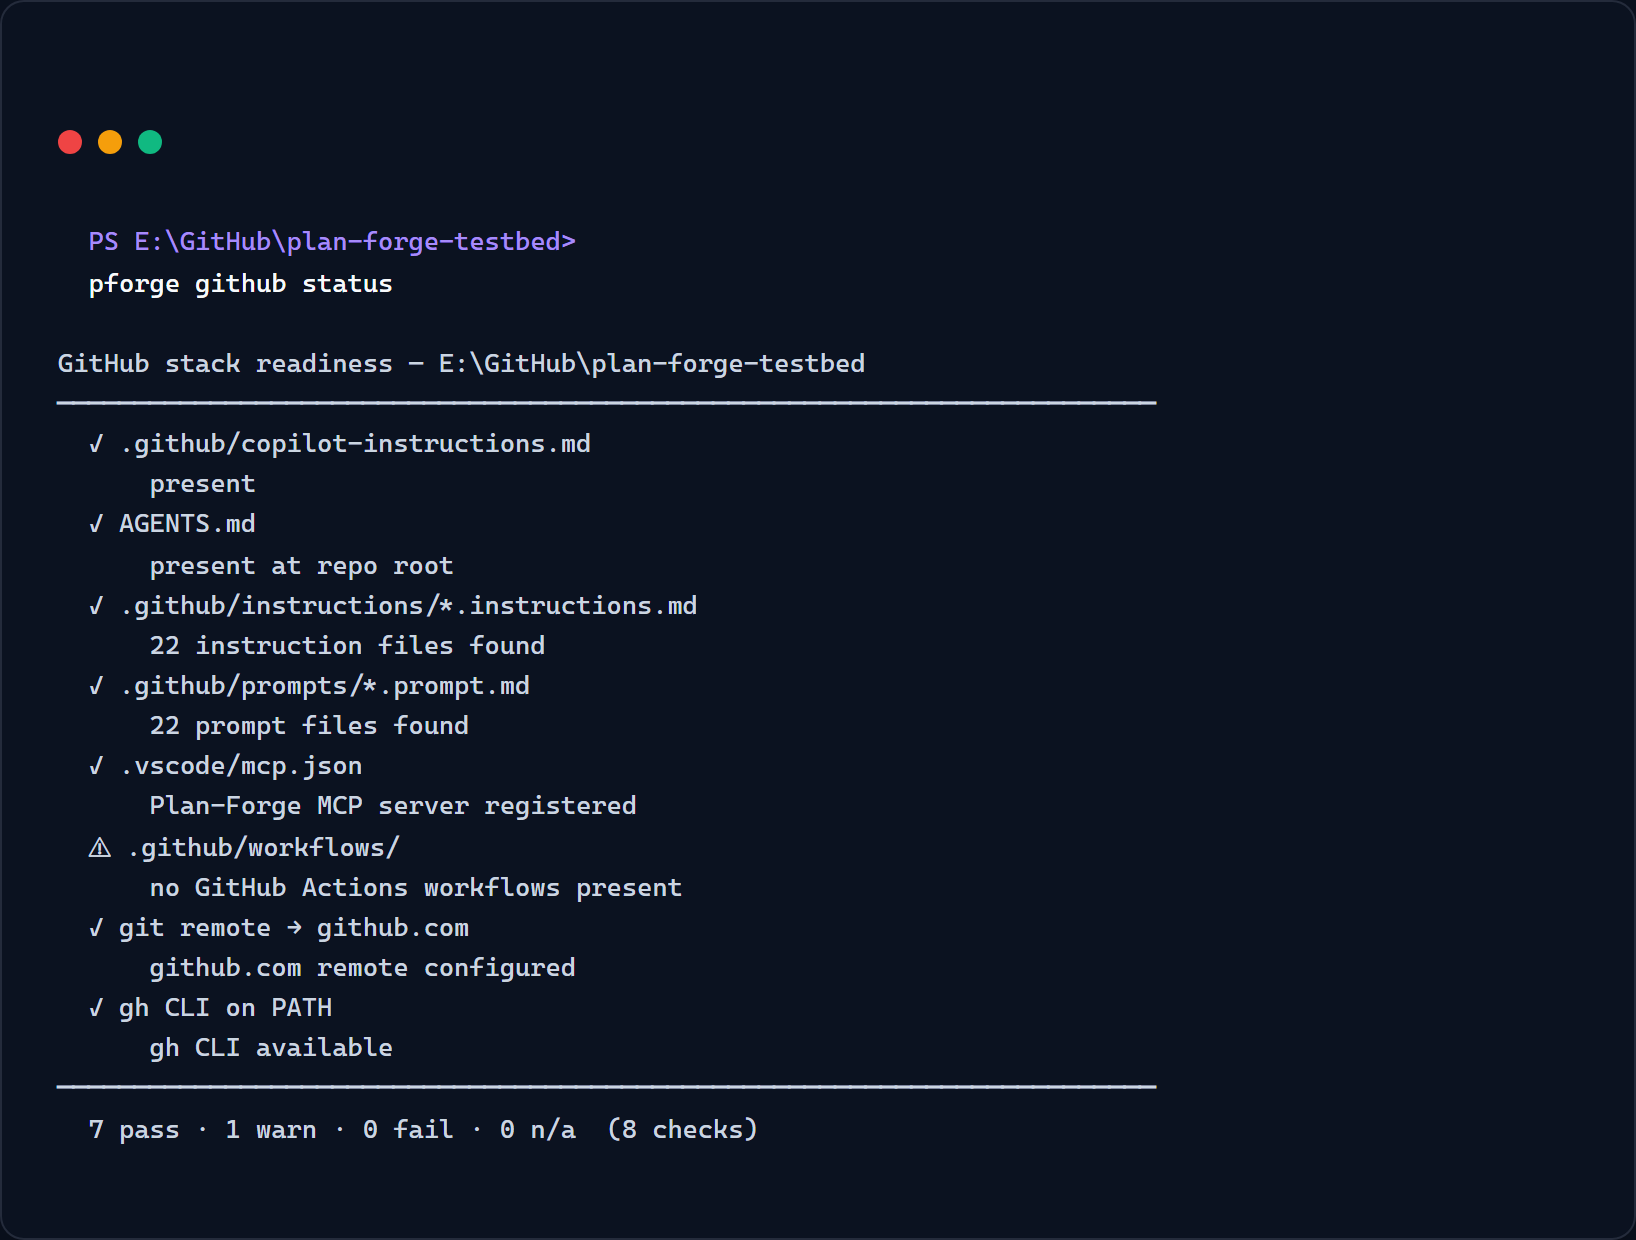
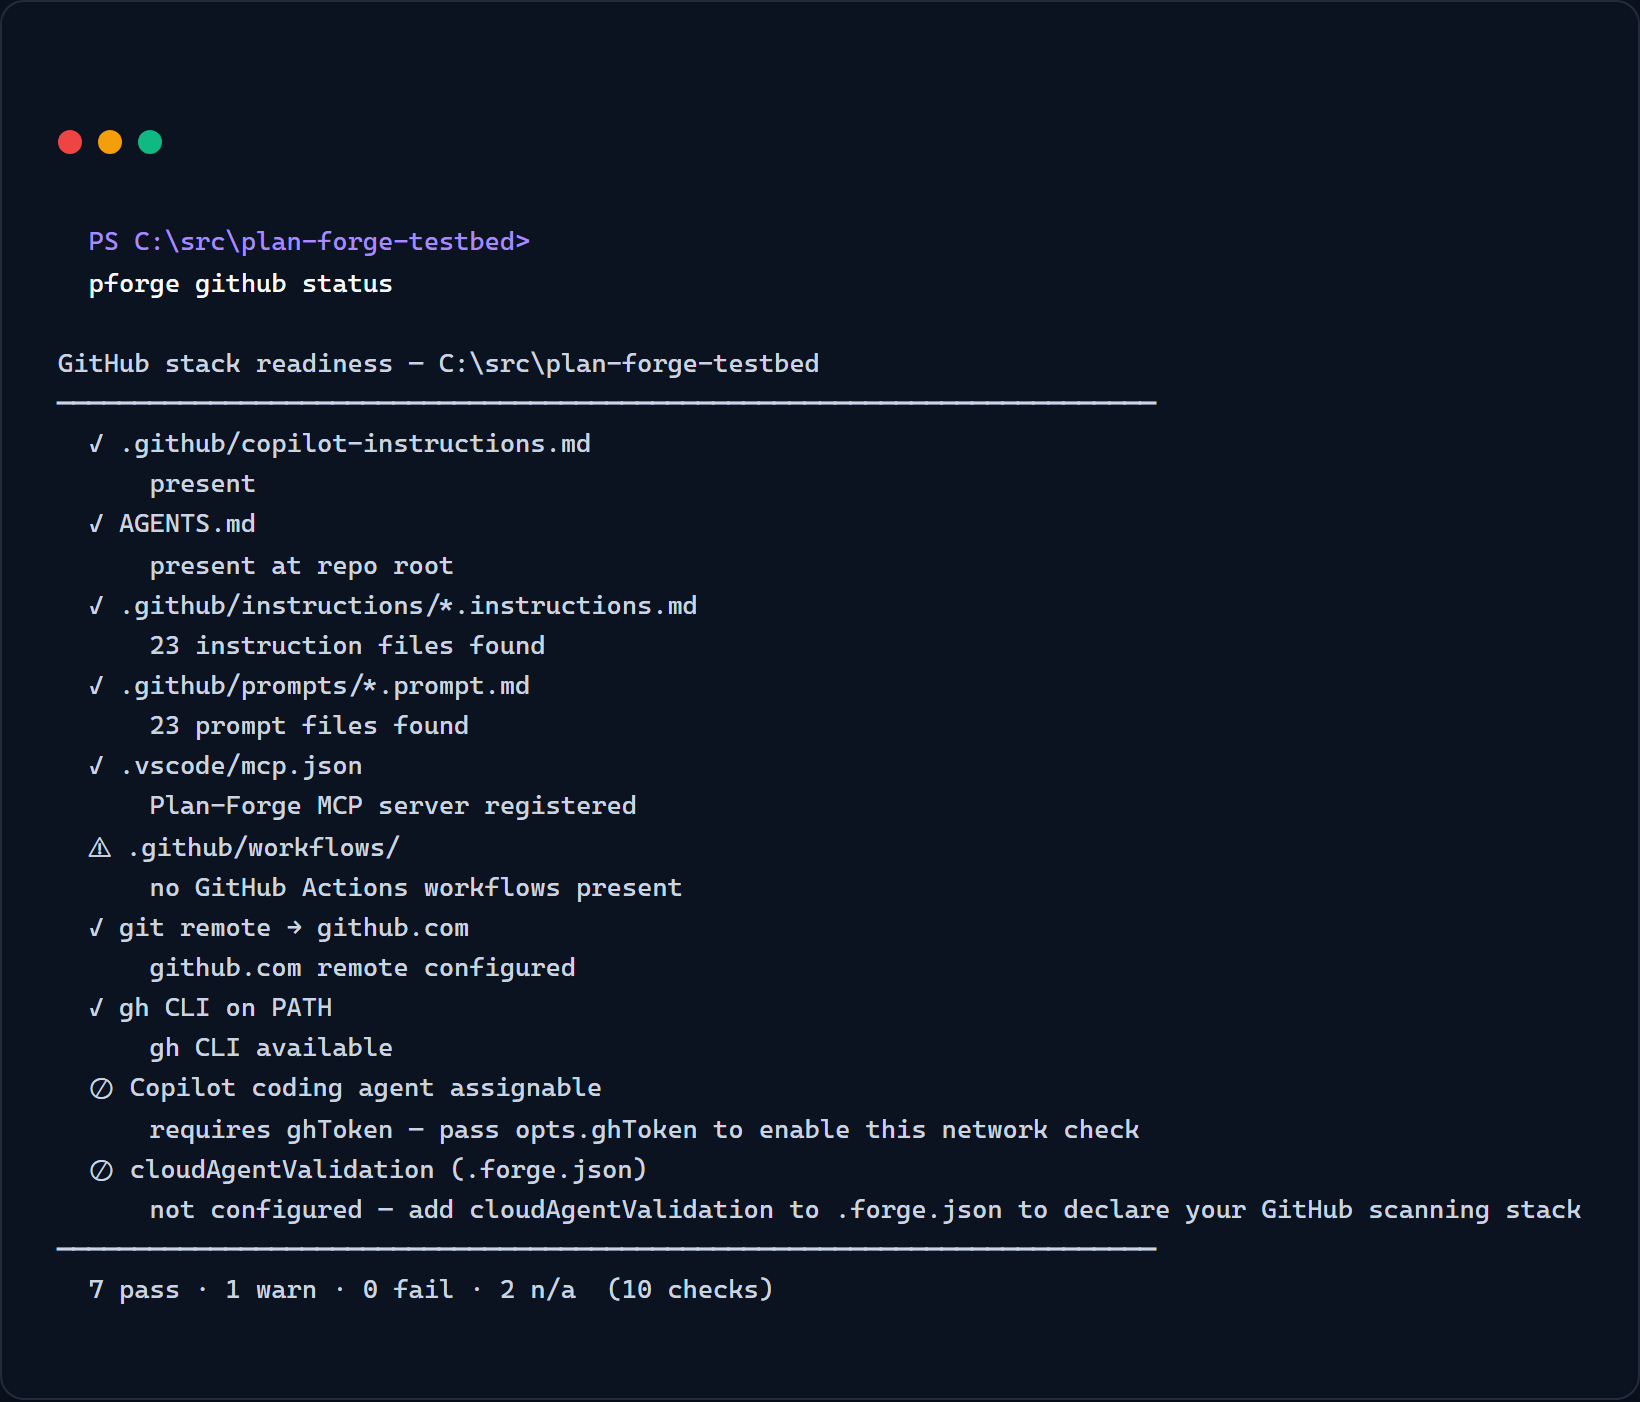
docs: use neutral paths and examples instead of project-specific ones
The manual, EVENTS.md samples, crucible-modes and the release checklist used
the maintainer's checkout paths and other project names as examples. They now
use neutral placeholders, and the testbed pages document the new resolution
order and the ERR_TESTBED_PATH_REQUIRED / ERR_TESTBED_NOT_FOUND split. The
GitHub-status screenshot is regenerated with a neutral path. CHANGELOG
records both changes.

Changed region(s): [[0.0312, 0.1532, 0.9664, 0.95], [0.0312, 0.9806, 0.9664, 1.0], [0.0312, 0.0919, 0.1247, 0.1226]]

diff --git a/docs/manual/plan-forge-manual.html b/docs/manual/plan-forge-manual.html
@@ -8623,12 +8623,12 @@ pforge triage    # list ranked open alerts (incidents + drift violations)</code>
         <div class="cmd-block mb-4">
           <div class="cmd-block-header"><span>Typical usage from the Watcher session</span></div>
           <pre><code>forge_watch {
-  targetPath: "E:/GitHub/Rummag",
+  targetPath: "/path/to/my-app",
   mode: "snapshot"
 }
 
 forge_watch_live {
-  targetPath: "E:/GitHub/Rummag",
+  targetPath: "/path/to/my-app",
   durationMs: 30000
 }</code></pre>
         </div>
@@ -9585,7 +9585,7 @@ open → noise       (classifier ruled it a false positive)</code></pre>
         </div>
 
         <div class="callout callout-tip">
-          <strong>Tool:</strong> <code>forge_testbed_run</code>. <strong>Scenarios:</strong> <code>docs/plans/testbed-scenarios/*.json</code>. <strong>Findings:</strong> <code>docs/plans/testbed-findings/*.json</code>. Requires <code>testbed.path</code> in <code>.forge.json</code>.
+          <strong>Tool:</strong> <code>forge_testbed_run</code>. <strong>Scenarios:</strong> <code>docs/plans/testbed-scenarios/*.json</code>. <strong>Findings:</strong> <code>docs/plans/testbed-findings/*.json</code>. Testbed location: <code>testbed.path</code> in <code>.forge.json</code>, or a <code>plan-forge-testbed</code> clone next to the project.
         </div>
 
         <h2 id="why">Why a Separate Testbed?</h2>
@@ -9642,7 +9642,8 @@ open → noise       (classifier ruled it a false positive)</code></pre>
         <table class="manual-table">
           <thead><tr><th>Code</th><th>Meaning</th><th>Recovery</th></tr></thead>
           <tbody>
-            <tr><td><code>ERR_TESTBED_NOT_FOUND</code></td><td><code>testbed.path</code> missing or invalid</td><td>Set it in <code>.forge.json</code></td></tr>
+            <tr><td><code>ERR_TESTBED_PATH_REQUIRED</code></td><td>No <code>testbed.path</code>, no <code>testbedPath</code> argument, and no <code>plan-forge-testbed</code> clone next to the project</td><td>Set <code>testbed.path</code> in <code>.forge.json</code>, or clone the testbed next to the project</td></tr>
+            <tr><td><code>ERR_TESTBED_NOT_FOUND</code></td><td>The configured testbed path does not exist</td><td>Fix <code>testbed.path</code> in <code>.forge.json</code></td></tr>
             <tr><td><code>ERR_TESTBED_DIRTY</code></td><td>Uncommitted changes in the testbed</td><td>Commit or stash inside the testbed repo</td></tr>
             <tr><td><code>ERR_TESTBED_LOCKED</code></td><td>Another scenario is running</td><td>Wait, or remove a stale <code>.forge/testbed.lock</code></td></tr>
           </tbody>
@@ -12621,7 +12622,7 @@ pforge config list</code></pre>
 
       <p>Sample output, run against the Plan Forge repository itself:</p>
 
-      <pre><code>GitHub stack readiness, E:\GitHub\Plan Forge
+      <pre><code>GitHub stack readiness, C:\src\plan-forge
 ────────────────────────────────────────────────────────────────────────
   <span class="text-emerald-400 font-bold">✓</span> .github/copilot-instructions.md
       present
@@ -19051,20 +19052,20 @@ pforge ext add/remove/...       Extension management</code></pre>
             <thead><tr><th>Key</th><th>Type</th><th>Default</th><th>Example</th><th>Change impact</th></tr></thead>
             <tbody>
               <tr><td><code>brain.federation.enabled</code></td><td>boolean</td><td><code>false</code></td><td><code>true</code></td><td>Master switch for cross-project read-only memory federation (L4-lite, Phase-25).</td></tr>
-              <tr><td><code>brain.federation.repos</code></td><td>array&lt;string&gt;</td><td><code>[]</code></td><td><code>["E:/GitHub/Rummag"]</code></td><td>Absolute local repo paths only. Relative paths and URL schemes (http, https, ssh, git) are rejected at load time. Each entry is searched read-only by <code>brain_recall</code>.</td></tr>
+              <tr><td><code>brain.federation.repos</code></td><td>array&lt;string&gt;</td><td><code>[]</code></td><td><code>["/path/to/other-repo"]</code></td><td>Absolute local repo paths only. Relative paths and URL schemes (http, https, ssh, git) are rejected at load time. Each entry is searched read-only by <code>brain_recall</code>.</td></tr>
             </tbody>
           </table>
         </div>
 
         <!-- ============================================================ -->
         <h2 id="testbed"><code>testbed</code> &mdash; testbed path</h2>
-        <p>Where the reference testbed repo lives. Required for the <code>forge_testbed_*</code> tools and the <code>--testbedPath</code> override.</p>
+        <p>Where the reference testbed repo lives, for the <code>forge_testbed_*</code> tools. A <code>testbedPath</code> argument overrides it; when neither is set, the tools use a <code>plan-forge-testbed</code> clone next to the project.</p>
 
         <div class="overflow-x-auto mb-6">
           <table class="manual-table">
             <thead><tr><th>Key</th><th>Type</th><th>Default</th><th>Example</th><th>Change impact</th></tr></thead>
             <tbody>
-              <tr><td><code>testbed.path</code></td><td>string (path)</td><td><em>(unset = testbed tools error)</em></td><td><code>"E:/GitHub/plan-forge-testbed"</code></td><td>Absolute or workspace-relative path to the testbed repo. When unset, <code>forge_testbed_run</code> returns <code>ERR_TESTBED_NOT_FOUND</code> with a recovery hint.</td></tr>
+              <tr><td><code>testbed.path</code></td><td>string (path)</td><td><em>(unset = a <code>plan-forge-testbed</code> clone next to the project)</em></td><td><code>"../plan-forge-testbed"</code></td><td>Absolute path, or a path relative to the project root. When it is unset and there is no sibling clone, <code>forge_testbed_run</code> returns <code>ERR_TESTBED_PATH_REQUIRED</code>; a path that does not exist returns <code>ERR_TESTBED_NOT_FOUND</code>.</td></tr>
             </tbody>
           </table>
         </div>
@@ -19133,7 +19134,7 @@ pforge ext add/remove/...       Extension management</code></pre>
   "brain": {
     "federation": {
       "enabled": true,
-      "repos": ["E:/GitHub/shared-platform-memory"]
+      "repos": ["/path/to/shared-platform-memory"]
     }
   },
 

diff --git a/docs/manual/forge-json-reference.html b/docs/manual/forge-json-reference.html
@@ -366,20 +366,20 @@
             <thead><tr><th>Key</th><th>Type</th><th>Default</th><th>Example</th><th>Change impact</th></tr></thead>
             <tbody>
               <tr><td><code>brain.federation.enabled</code></td><td>boolean</td><td><code>false</code></td><td><code>true</code></td><td>Master switch for cross-project read-only memory federation (L4-lite, Phase-25).</td></tr>
-              <tr><td><code>brain.federation.repos</code></td><td>array&lt;string&gt;</td><td><code>[]</code></td><td><code>["E:/GitHub/Rummag"]</code></td><td>Absolute local repo paths only. Relative paths and URL schemes (http, https, ssh, git) are rejected at load time. Each entry is searched read-only by <code>brain_recall</code>.</td></tr>
+              <tr><td><code>brain.federation.repos</code></td><td>array&lt;string&gt;</td><td><code>[]</code></td><td><code>["/path/to/other-repo"]</code></td><td>Absolute local repo paths only. Relative paths and URL schemes (http, https, ssh, git) are rejected at load time. Each entry is searched read-only by <code>brain_recall</code>.</td></tr>
             </tbody>
           </table>
         </div>
 
         <!-- ============================================================ -->
         <h2 id="testbed"><code>testbed</code> &mdash; testbed path</h2>
-        <p>Where the reference testbed repo lives. Required for the <code>forge_testbed_*</code> tools and the <code>--testbedPath</code> override.</p>
+        <p>Where the reference testbed repo lives, for the <code>forge_testbed_*</code> tools. A <code>testbedPath</code> argument overrides it; when neither is set, the tools use a <code>plan-forge-testbed</code> clone next to the project.</p>
 
         <div class="overflow-x-auto mb-6">
           <table class="manual-table">
             <thead><tr><th>Key</th><th>Type</th><th>Default</th><th>Example</th><th>Change impact</th></tr></thead>
             <tbody>
-              <tr><td><code>testbed.path</code></td><td>string (path)</td><td><em>(unset = testbed tools error)</em></td><td><code>"E:/GitHub/plan-forge-testbed"</code></td><td>Absolute or workspace-relative path to the testbed repo. When unset, <code>forge_testbed_run</code> returns <code>ERR_TESTBED_NOT_FOUND</code> with a recovery hint.</td></tr>
+              <tr><td><code>testbed.path</code></td><td>string (path)</td><td><em>(unset = a <code>plan-forge-testbed</code> clone next to the project)</em></td><td><code>"../plan-forge-testbed"</code></td><td>Absolute path, or a path relative to the project root. When it is unset and there is no sibling clone, <code>forge_testbed_run</code> returns <code>ERR_TESTBED_PATH_REQUIRED</code>; a path that does not exist returns <code>ERR_TESTBED_NOT_FOUND</code>.</td></tr>
             </tbody>
           </table>
         </div>
@@ -449,7 +449,7 @@
   "brain": {
     "federation": {
       "enabled": true,
-      "repos": ["E:/GitHub/shared-platform-memory"]
+      "repos": ["/path/to/shared-platform-memory"]
     }
   },
 

diff --git a/docs/manual/testbed.html b/docs/manual/testbed.html
@@ -42,7 +42,7 @@
         </div>
 
         <div class="callout callout-tip">
-          <strong>Tool:</strong> <code>forge_testbed_run</code>. <strong>Scenarios:</strong> <code>docs/plans/testbed-scenarios/*.json</code>. <strong>Findings:</strong> <code>docs/plans/testbed-findings/*.json</code>. Requires <code>testbed.path</code> in <code>.forge.json</code>.
+          <strong>Tool:</strong> <code>forge_testbed_run</code>. <strong>Scenarios:</strong> <code>docs/plans/testbed-scenarios/*.json</code>. <strong>Findings:</strong> <code>docs/plans/testbed-findings/*.json</code>. Testbed location: <code>testbed.path</code> in <code>.forge.json</code>, or a <code>plan-forge-testbed</code> clone next to the project.
         </div>
 
         <h2 id="why">Why a Separate Testbed?</h2>
@@ -99,7 +99,8 @@
         <table class="manual-table">
           <thead><tr><th>Code</th><th>Meaning</th><th>Recovery</th></tr></thead>
           <tbody>
-            <tr><td><code>ERR_TESTBED_NOT_FOUND</code></td><td><code>testbed.path</code> missing or invalid</td><td>Set it in <code>.forge.json</code></td></tr>
+            <tr><td><code>ERR_TESTBED_PATH_REQUIRED</code></td><td>No <code>testbed.path</code>, no <code>testbedPath</code> argument, and no <code>plan-forge-testbed</code> clone next to the project</td><td>Set <code>testbed.path</code> in <code>.forge.json</code>, or clone the testbed next to the project</td></tr>
+            <tr><td><code>ERR_TESTBED_NOT_FOUND</code></td><td>The configured testbed path does not exist</td><td>Fix <code>testbed.path</code> in <code>.forge.json</code></td></tr>
             <tr><td><code>ERR_TESTBED_DIRTY</code></td><td>Uncommitted changes in the testbed</td><td>Commit or stash inside the testbed repo</td></tr>
             <tr><td><code>ERR_TESTBED_LOCKED</code></td><td>Another scenario is running</td><td>Wait, or remove a stale <code>.forge/testbed.lock</code></td></tr>
           </tbody>

diff --git a/docs/manual/plan-forge-on-the-github-stack.html b/docs/manual/plan-forge-on-the-github-stack.html
@@ -59,7 +59,7 @@
 
       <p>Sample output, run against the Plan Forge repository itself:</p>
 
-      <pre><code>GitHub stack readiness, E:\GitHub\Plan Forge
+      <pre><code>GitHub stack readiness, C:\src\plan-forge
 ────────────────────────────────────────────────────────────────────────
   <span class="text-emerald-400 font-bold">✓</span> .github/copilot-instructions.md
       present

diff --git a/docs/assets/briefing-deck.css b/docs/assets/briefing-deck.css
@@ -4,7 +4,7 @@
  * Consumed by: docs/walkthroughs/*.html, docs/demos/*.html deck files
  *
  * Token names follow the Plan Forge palette (--pf-*).
- * No password overlay, no hero blur-orbs, no BCDR palette colors.
+ * No password overlay, no hero blur-orbs, no palette colors borrowed from other projects.
  */
 
 /* ── Design tokens ─────────────────────────────────────────────────── */

diff --git a/docs/manual/watcher.html b/docs/manual/watcher.html
@@ -70,12 +70,12 @@
         <div class="cmd-block mb-4">
           <div class="cmd-block-header"><span>Typical usage from the Watcher session</span></div>
           <pre><code>forge_watch {
-  targetPath: "E:/GitHub/Rummag",
+  targetPath: "/path/to/my-app",
   mode: "snapshot"
 }
 
 forge_watch_live {
-  targetPath: "E:/GitHub/Rummag",
+  targetPath: "/path/to/my-app",
   durationMs: 30000
 }</code></pre>
         </div>

diff --git a/CHANGELOG.md b/CHANGELOG.md
@@ -39,6 +39,18 @@ Format follows [Keep a Changelog](https://keepachangelog.com/).
 
 ### Fixed
 
+- **The testbed tools no longer default to one contributor's folder.** On Windows, when `testbed.path` was unset, `resolveTestbedPath` returned `E:\GitHub\plan-forge-testbed`, a path from the maintainer's machine, instead of the documented error. The testbed tools now use, in order:
+  1. a `testbedPath` argument;
+  2. `testbed.path` from `.forge.json`, with relative paths resolved against the project root rather than the server's working directory;
+  3. a `plan-forge-testbed` clone next to the project.
+
+  If none of these exists, they return `ERR_TESTBED_PATH_REQUIRED` on every platform.
+- **Shipped examples no longer name a specific project.**
+  - The `forge_watch` and `forge_watch_live` examples used `E:/GitHub/Rummag`; they now use `/path/to/my-app`.
+  - Crucible's linked-bugs prompt and the `forge_crucible_submit` `bugId` example used another project's tracker prefix (`RMG-0035`); they now use `BUG-0035`.
+  - The manual, `EVENTS.md` samples and the GitHub-status screenshot now use neutral paths.
+
+  A guard test now fails if Plan Forge's own source contains a path into a contributor's checkout.
 - **Forge-Master no longer fails every turn now that GitHub Models has been retired.** GitHub shut down GitHub Models (`models.github.ai`) on 2026-07-30. The host now answers with a plain-text `200 OK`, and the default `githubCopilot` provider turned that into a JSON `SyntaxError` on every turn. Forge-Master no longer auto-selects that provider. It tries `ANTHROPIC_API_KEY`, then `OPENAI_API_KEY`, then `XAI_API_KEY`, and defaults to `claude-sonnet-5.5`, `gpt-6-sol` or `grok-4.7` respectively. An explicit `reasoningProvider: "githubCopilot"` now fails immediately with a message that names those keys.
 - **Forge-Master's Anthropic provider reaches the API.** It posted to `/v1/v1/messages` and sent Copilot-style dotted IDs such as `claude-sonnet-4.6`, which the Anthropic API rejects. It now posts to `/v1/messages` and sends the hyphenated ID (`claude-sonnet-5-5`). OpenAI GPT-6 requests that carry tools now set `reasoning_effort: "none"`, which Chat Completions requires for function calling on GPT-6.
 - **Cost estimates price Gemini, Kimi and MAI quorum legs as Copilot requests.** These families have no direct-API route in Plan Forge and always run through `gh-copilot`. The estimator still treated them as an unknown provider and priced them per token.
@@ -61,6 +73,7 @@ Format follows [Keep a Changelog](https://keepachangelog.com/).
 - `run-plan` now rejects a slice whose declared Validation Gate has no runnable command. Move gate commands into a shell-tagged or untagged fence, or mark checks that must be manual with `[manual]`.
 - `pforge update` installs the new hook launchers and scripts. Projects that disabled hooks to work around #287 can re-enable them after updating. Confirm in the editor that hook scripts no longer open as tabs. The forbidden-path hook now actually denies edits, so if several hardened plans are queued, write `.forge/active-plan` to name the plan it should enforce.
 - Existing `.forge.json` files are not rewritten. If `modelRouting`, `quorum.models`, `quorum.reviewerModel` or `escalationChain` name a retired Copilot model (`claude-opus-4.7`, `claude-sonnet-4.6`, `gpt-5.5`, `gpt-5.4`, `gpt-5.4-mini`, `gpt-5-mini`, Gemini 3.5–3.7 Flash, `kimi-k2.7-code`), replace it. `pforge doctor` lists the configured quorum models.
+- The testbed tools no longer assume `E:\GitHub\plan-forge-testbed` on Windows. Set `testbed.path` in `.forge.json`, or keep the testbed cloned next to the project as `../plan-forge-testbed`.
 - Forge-Master setups that relied on `GITHUB_TOKEN` or `gh auth login` alone need `ANTHROPIC_API_KEY`, `OPENAI_API_KEY` or `XAI_API_KEY` in the environment.
 - `pforge update` only adds preset files a project does not have yet. It never overwrites existing instruction, agent or prompt files, because they may be customized. To adopt the refreshed preset versions, merge them from `presets/<stack>/.github/`, or delete a file you have not customized and re-run `pforge update`.
 

diff --git a/docs/RELEASE-CHECKLIST.md b/docs/RELEASE-CHECKLIST.md
@@ -423,7 +423,7 @@ If a user genuinely wants the older release (e.g. their local v2.96.0 is corrupt
 | v2.50.0/v2.51.0/v2.52.0 broken installs | Tarballs shipped `VERSION=-dev` | v2.52.1 + `release-guard.yml` |
 | v2.76.0–v2.80.1 invisible releases | Tags pushed, Releases never cut | v2.81.0 backfill + drift warning in `update-from-github.mjs` |
 | v2.59.x consumers missed `PreCommit.mjs` | Hook only in `.github/hooks/`, not `templates/` | v2.59.x housekeeping mirror |
-| Rummag landed on `2.54.0-dev` via sibling clone | `pforge update` fell back to dev sibling | v2.53.2 dev-source guard |
+| A consumer project landed on `2.54.0-dev` via sibling clone | `pforge update` fell back to dev sibling | v2.53.2 dev-source guard |
 | v2.82.1 — consumers missed `postSlice` hook + `self-repair-reporting.instructions.md` | Hook + instruction file not enumerated in setup/update | v2.82.1 sync repair |
 
 Each of those cost real users real time. This checklist exists so it doesn't happen again.

diff --git a/pforge-mcp/EVENTS.md b/pforge-mcp/EVENTS.md
@@ -428,7 +428,7 @@ Emitted when `forge_watch` builds a snapshot of a target project. Consumed by th
 {
   "type": "watch-snapshot-completed",
   "data": {
-    "target": "../Rummag",
+    "target": "../my-app",
     "runState": "in-progress",
     "runId": "run-2026-04-17-0930",
     "anomalyCount": 2,
@@ -445,7 +445,7 @@ Emitted when `forge_watch` detects one or more anomalies. One event per watch in
 {
   "type": "watch-anomaly-detected",
   "data": {
-    "target": "../Rummag",
+    "target": "../my-app",
     "runId": "run-2026-04-17-0930",
     "anomalies": [
       { "code": "slice-failed", "severity": "high", "message": "Slice 3 failed after 2 retries" },
@@ -464,7 +464,7 @@ Emitted when `forge_watch` analyze-mode produces narrative advice from a frontie
 {
   "type": "watch-advice-generated",
   "data": {
-    "target": "../Rummag",
+    "target": "../my-app",
     "runId": "run-2026-04-17-0930",
     "model": "claude-opus-4.7",
     "tokensIn": 8432,

diff --git a/docs/crucible-modes.md b/docs/crucible-modes.md
@@ -68,7 +68,7 @@ Finalization refuses with `CrucibleFinalizeRefusedError` if any line has fewer t
 Pass `bugId` at submit time to automatically populate frontmatter:
 
 ```json
-{ "rawIdea": "Fix crash in parser", "lane": "bug-batch", "bugId": "RMG-0035" }
+{ "rawIdea": "Fix crash in parser", "lane": "bug-batch", "bugId": "BUG-0035" }
 ```
 
 The finalized plan's YAML frontmatter will include:
@@ -79,8 +79,8 @@ crucibleId: <uuid>
 lane: bug-batch
 source: human
 phaseId: Phase-60
-linkedBugs: [RMG-0035]
-bugId: RMG-0035
+linkedBugs: [BUG-0035]
+bugId: BUG-0035
 ---
 ```
 
